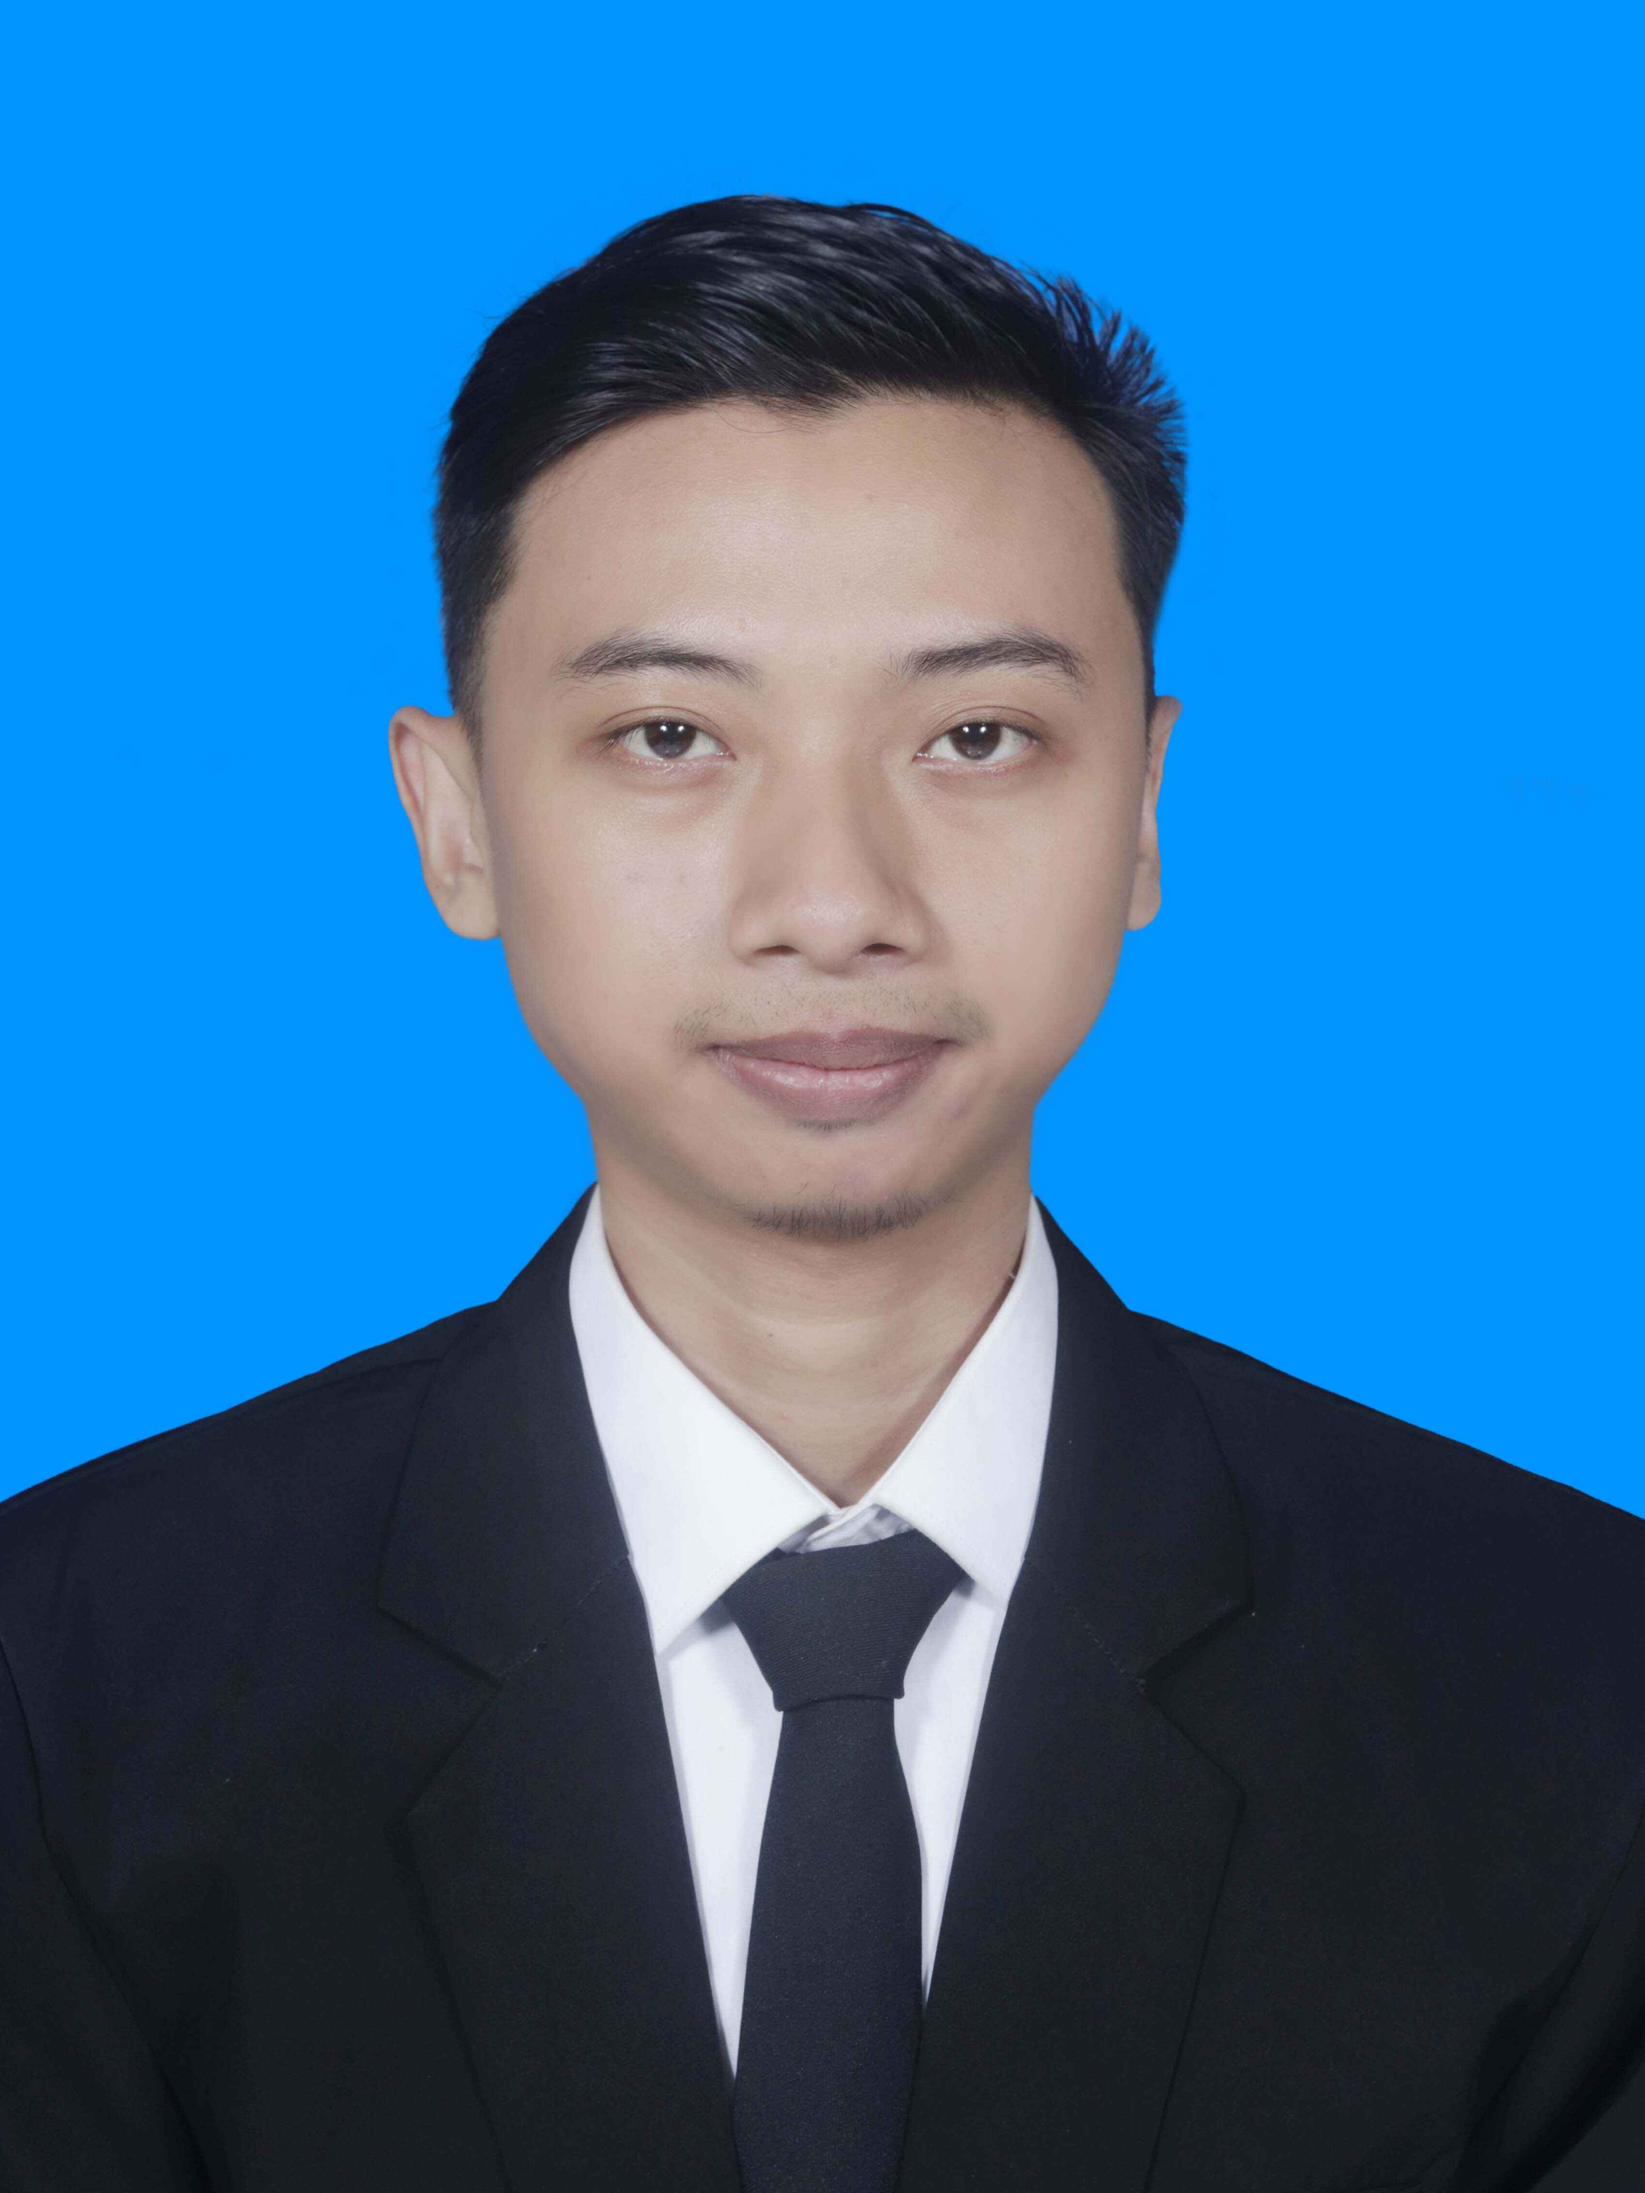
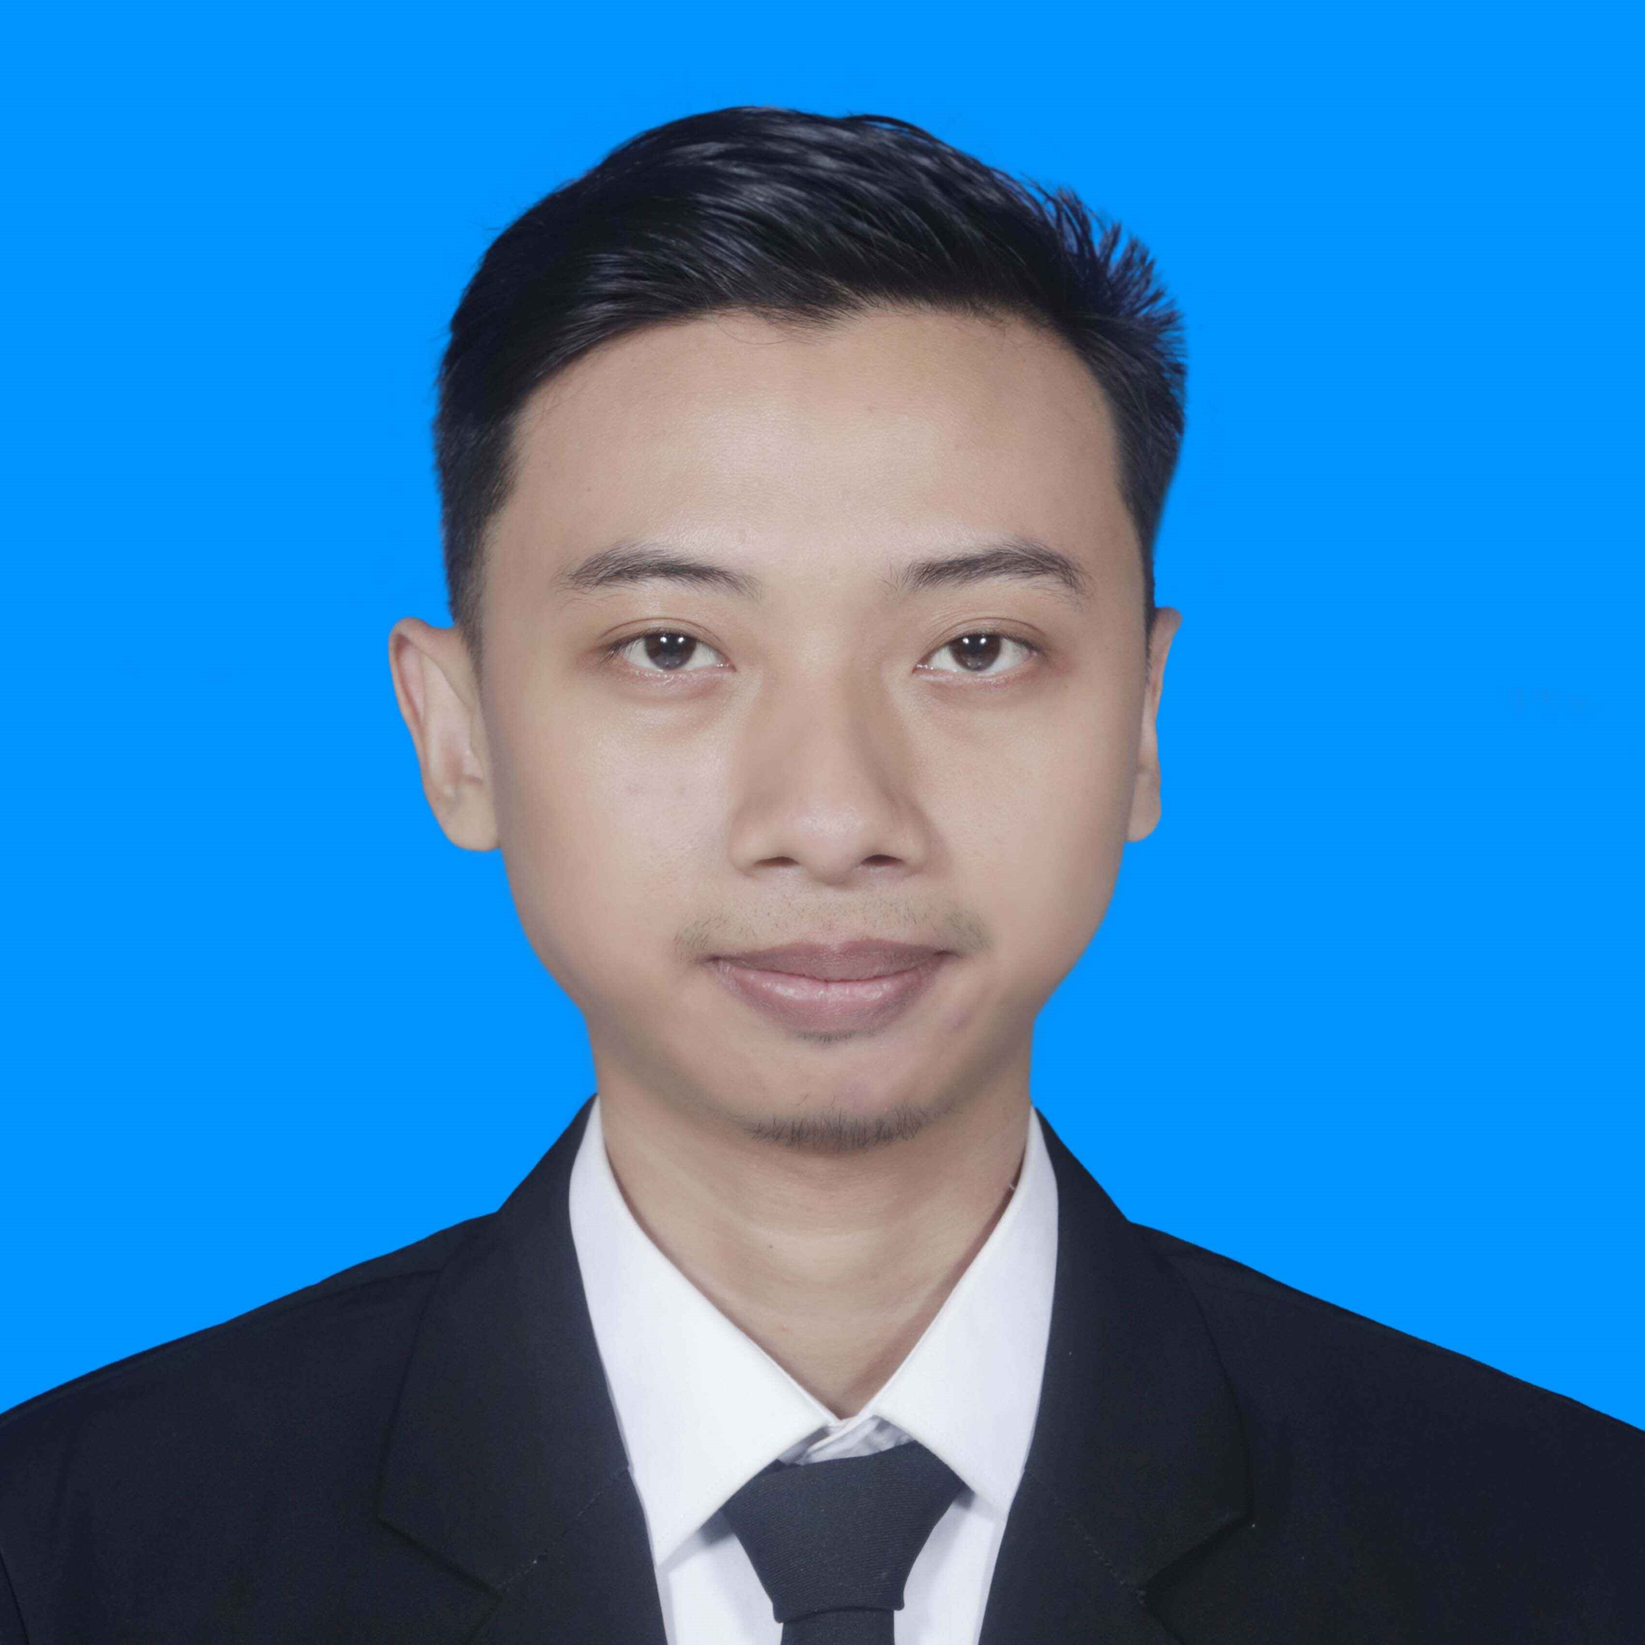
updated image and delete contact me

diff --git a/index.html b/index.html
@@ -145,47 +145,10 @@
       </svg>
     </section>
     <!-- End Project -->
-    <!-- Contact me -->
-    <section id="contact">
-      <div class="container">
-        <div class="row text-center mb-3">
-          <div class="col">
-            <h2>Contact Me</h2>
-          </div>
-        </div>
-        <div class="row justify-content-center">
-          <div class="col-md-6">
-            <form action="proses.php" method="post">
-              <div class="mb-3">
-                <label for="name" class="form-label">Nama Lengkap</label>
-                <input type="text" class="form-control" id="name" aria-describedby="name" />
-              </div>
-              <div class="mb-3">
-                <label for="email" class="form-label">Email</label>
-                <input type="email" class="form-control" id="email" aria-describedby="email" />
-              </div>
-              <div class="mb-3">
-                <label for="pesan" class="form-label">Pesan</label>
-                <textarea class="form-control" id="pesan" rows="3"></textarea>
-              </div>
-              <button type="submit" class="btn btn-primary">Kirim</button>
-            </form>
-          </div>
-        </div>
-      </div>
-      <svg xmlns="http://www.w3.org/2000/svg" viewBox="0 0 1440 320">
-        <path
-          fill="#0d6efd"
-          fill-opacity="1"
-          d="M0,224L40,197.3C80,171,160,117,240,122.7C320,128,400,192,480,224C560,256,640,256,720,240C800,224,880,192,960,202.7C1040,213,1120,267,1200,256C1280,245,1360,171,1400,133.3L1440,96L1440,320L1400,320C1360,320,1280,320,1200,320C1120,320,1040,320,960,320C880,320,800,320,720,320C640,320,560,320,480,320C400,320,320,320,240,320C160,320,80,320,40,320L0,320Z"
-        ></path>
-      </svg>
-    </section>
-    <!-- End Contact me -->
 
     <!-- Footer -->
     <footer class="bg-primary text-white text-center pb-3">
-      <p>Created By <a href="https://instagram.com/mr_zulfikar_r?igshid=OGQ5ZDc2ODk2ZA==" class="text-white fw-bold">Mr Zulfikar</a></p>
+      <p>Created By <a href="https://www.instagram.com/tuan_zuli/" target="_blank" class="text-white fw-bold">Mr Zulfikar</a></p>
     </footer>
     <!-- End Footer -->
 
